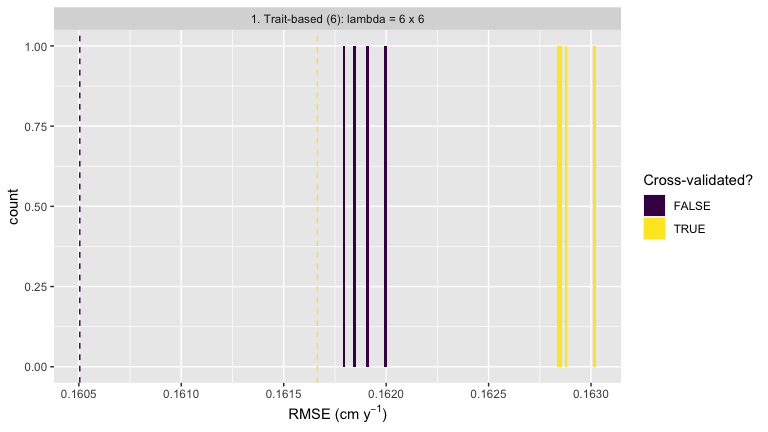
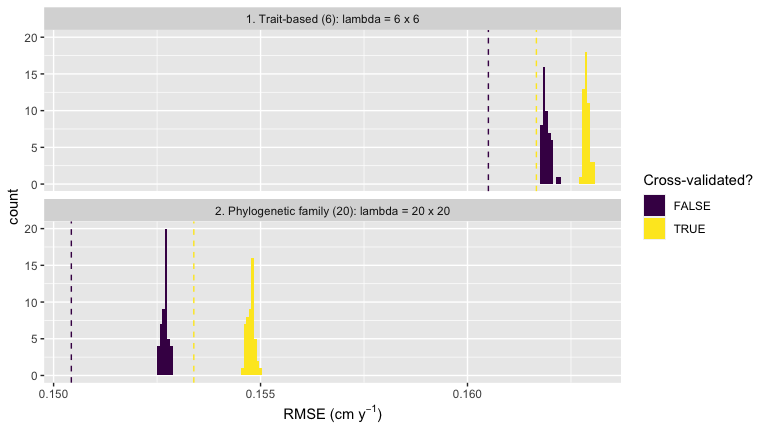
Build README

diff --git a/README.md b/README.md
@@ -993,20 +993,20 @@ for(i in 1:length(species_notion_vector)){
 **Plot results**:
 
 ``` r
-load("model_comp_tbl_4_shuffles.RData")
+load("2020-06-25_model_comp_tbl_49_shuffles.RData")
 model_comp <- bind_rows(
   model_comp_tbl %>% select(species_notion, run_time, observed = observed_RMSE, shuffle = shuffle_RMSE) %>% mutate(CV = FALSE),
   model_comp_tbl %>% select(species_notion, run_time, observed = observed_RMSE_CV, shuffle = shuffle_RMSE_CV) %>% mutate(CV = TRUE)
 ) %>%
   gather(type, RMSE, -c(species_notion, run_time, CV)) %>%
-  arrange(CV, model_number) %>%
   mutate(
     species_notion = case_when(
       species_notion == "trait_group" ~ "1. Trait-based (6): lambda = 6 x 6",
       species_notion == "family" ~ "2. Phylogenetic family (20): lambda = 20 x 20",
       species_notion == "species" ~ "3. Actual species (36): lambda = 36 x 36"
     )
-  )
+  ) %>% 
+  filter(species_notion != "3. Actual species (36): lambda = 36 x 36")
 
 model_comp_observed <- model_comp %>%
   filter(type == "observed") %>%
@@ -1025,6 +1025,8 @@ ggplot() +
   scale_color_viridis(discrete = TRUE, option = "D")+
   scale_fill_viridis(discrete = TRUE)
 ```
+
+<img src="man/figures/README-unnamed-chunk-35-1.png" width="100%" />
 
 ### Visualize posterior distributions
 
